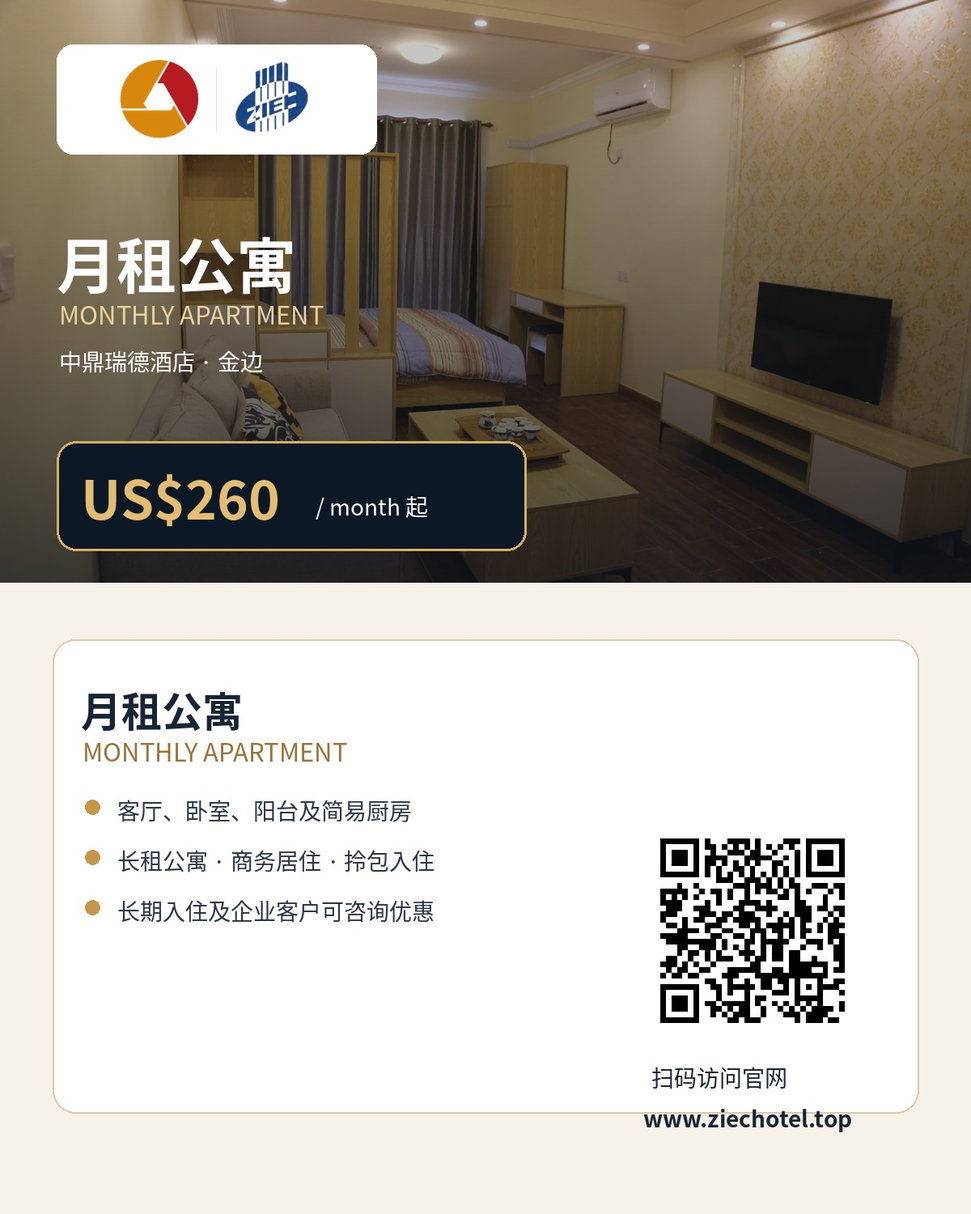
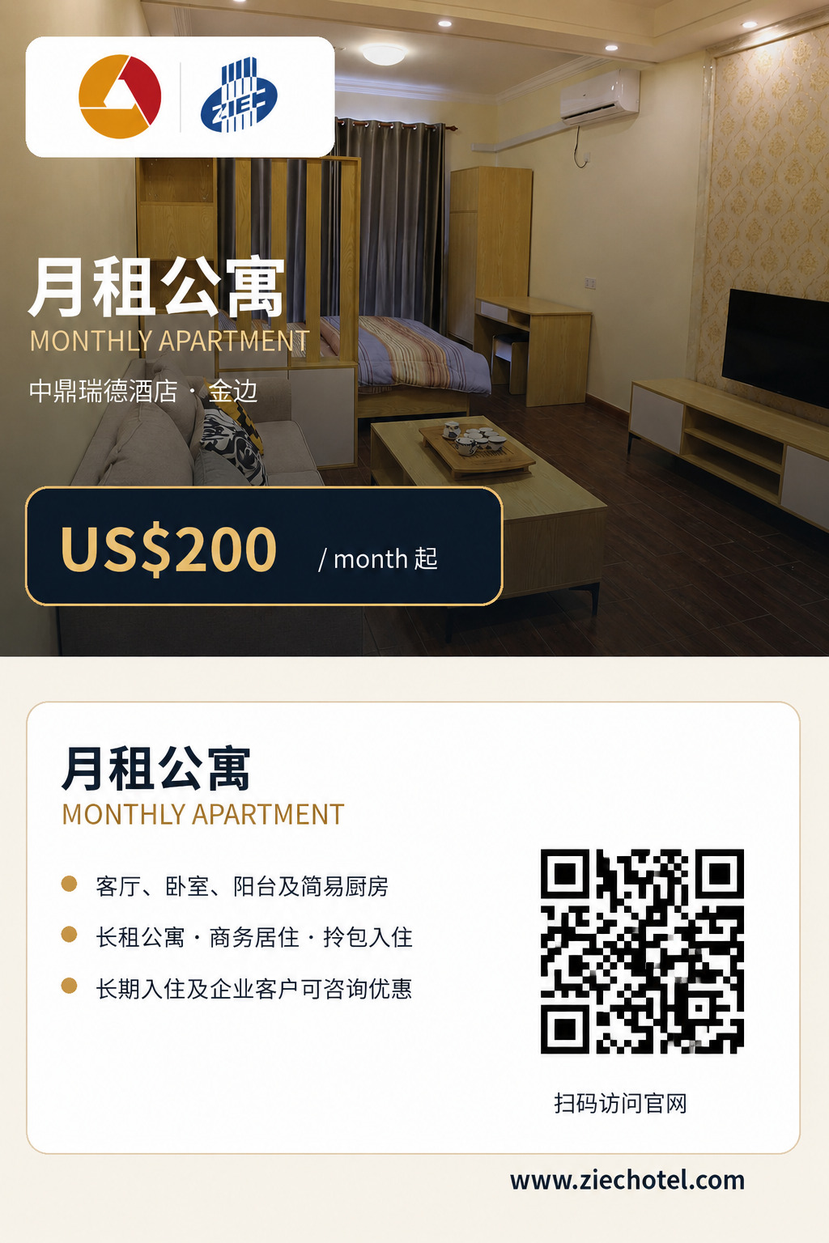
ZIEC HOTEL V7.5
ZIEC HOTEL V7.5

diff --git a/script.js b/script.js
@@ -111,8 +111,8 @@ const I18N_TEXT = {
     "酒店住宿": "Hotel Stays",
     "舒适客房、安心入住 →": "Comfortable rooms, reliable stays →",
     "月租公寓": "Monthly Apartments",
-    "US$260/月起，适合长期居住 →":
-      "From US$260/month for long-term stays →",
+    "US$200/月起，适合长期居住 →":
+      "From US$200/month for long-term stays →",
     "团队接待、长包房、协议合作 →":
       "Group reception, long stays and corporate agreements →",
     "会议中心": "Conference Center",
@@ -134,7 +134,7 @@ const I18N_TEXT = {
     "/ month 起": "/ month",
     "长住更划算，拎包即可入住。":
       "Better value for long stays, ready to move in.",
-    "US$260": "US$260",
+    "US$200": "US$200",
     "/ 月起": "/ month",
     "独立客厅与卧室": "Separate Living Room and Bedroom",
     "阳台及简易厨房": "Balcony and Simple Kitchen",
@@ -591,7 +591,7 @@ Object.assign(I18N_TEXT.kh, {
   "常见问题": "សំណួរញឹកញាប់", "关于预订、月租、企业团房和中文服务的直接说明。": "ចម្លើយអំពីការកក់ ការជួលប្រចាំខែ បន្ទប់ជាក្រុម និងសេវាអតិថិជន។",
   "中国客人如何预订？": "តើភ្ញៀវចិនកក់យ៉ាងដូចម្តេច?", "在酒店页面提交姓名、联系方式、日期、人数和房型，中文客服确认后回复。": "ដាក់ឈ្មោះ ទំនាក់ទំនង កាលបរិច្ឆេទ ចំនួនភ្ញៀវ និងប្រភេទបន្ទប់នៅទំព័រសណ្ឋាគារ ហើយបុគ្គលិកនឹងឆ្លើយបន្ទាប់ពីបញ្ជាក់។",
   "是否支持中文服务？": "តើមានសេវាភាសាចិនទេ?", "支持中文住宿咨询、企业团房、接送包车和本地服务对接。": "មានសេវាប្រឹក្សាការស្នាក់នៅ បន្ទប់សហគ្រាស ការដឹកជញ្ជូន ជួលរថយន្ត និងសេវាក្នុងស្រុក។",
-  "月租包含哪些费用？": "ការជួលប្រចាំខែរួមបញ្ចូលថ្លៃអ្វីខ្លះ?", "月租公寓US$260/月起，费用包含、押金及水电标准以确认方案为准。": "អាផាតមិនចាប់ពី US$260/ខែ។ ថ្លៃរួម ប្រាក់កក់ ទឹក និងអគ្គិសនី អាស្រ័យលើផែនការដែលបានបញ្ជាក់។",
+  "月租包含哪些费用？": "ការជួលប្រចាំខែរួមបញ្ចូលថ្លៃអ្វីខ្លះ?", "月租公寓US$200/月起，费用包含、押金及水电标准以确认方案为准។": "អាផាតមិនចាប់ពី US$200/ខែ។ ថ្លៃរួម ប្រាក់កក់ ទឹក និងអគ្គិសនី អាស្រ័យលើផែនការដែលបានបញ្ជាក់។",
   "企业团房如何报价？": "តើបន្ទប់ជាក្រុមសហគ្រាសគិតតម្លៃយ៉ាងដូចម្តេច?", "根据入住人数、周期、房型、接送及结算需求制定协议方案。": "រៀបចំផែនការតាមចំនួនភ្ញៀវ រយៈពេល ប្រភេទបន្ទប់ ការដឹកជញ្ជូន និងការទូទាត់។",
   "接送包车如何收费？": "តើសេវាដឹកជញ្ជូន និងជួលរថយន្តគិតថ្លៃយ៉ាងដូចម្តេច?", "根据出发地、目的地、车型、人数和使用时长确认报价。": "តម្លៃអាស្រ័យលើទីតាំងចេញ គោលដៅ ប្រភេទរថយន្ត ចំនួនមនុស្ស និងរយៈពេលប្រើប្រាស់។",
   "取消和退款规则是什么？": "តើគោលការណ៍លុបចោល និងសងប្រាក់ជាអ្វី?", "付款前会说明取消期限、不可退条件和退款时间，确认后再付款。": "លក្ខខណ្ឌលុបចោល មិនសងប្រាក់ និងពេលសងប្រាក់ នឹងជូនដំណឹងមុនបង់ប្រាក់។",
@@ -615,11 +615,11 @@ Object.assign(I18N_TEXT.kh, {
   "STAY · 住": "STAY · ស្នាក់", "MOVE · 行": "MOVE · ធ្វើដំណើរ", "BUSINESS · 商": "BUSINESS · អាជីវកម្ម", "SUPPLY · 供": "SUPPLY · ផ្គត់ផ្គង់",
   "行｜接送包车与本地协助": "ធ្វើដំណើរ｜ដឹកជញ្ជូន ជួលរថយន្ត និងជំនួយក្នុងស្រុក",
   "接送、包车、司机与本地协助由客服先确认需求、价格与实际可用情况，适合游客、商务客和企业团队。": "ការដឹកជញ្ជូន ជួលរថយន្ត អ្នកបើកបរ និងជំនួយក្នុងស្រុក នឹងបញ្ជាក់តម្រូវការ តម្លៃ និងភាពអាចប្រើបានជាមុន សម្រាប់ភ្ញៀវទេសចរ អ្នកជំនួញ និងក្រុមសហគ្រាស។",
-  "US$35 / 晚": "US$35 / យប់", "US$45 / 晚": "US$45 / យប់", "US$65 / 晚": "US$65 / យប់", "US$80 / 晚": "US$80 / យប់", "US$260 / 月起": "ចាប់ពី US$260 / ខែ",
+  "US$35 / 晚": "US$35 / យប់", "US$45 / 晚": "US$45 / យប់", "US$65 / 晚": "US$65 / យប់", "US$80 / 晚": "US$80 / យប់", "US$200 / 月起": "ចាប់ពី US$200 / ខែ",
   "精美三室一厅套房｜US$80/晚 | ZIEC HOTEL": "ស៊ុយបីបន្ទប់គេង និងបន្ទប់ទទួលភ្ញៀវ｜US$80/យប់ | ZIEC HOTEL",
   "真实套房照片，三间卧室与独立客厅，适合家庭、朋友多人同行及企业接待。": "រូបស៊ុយពិត មានបន្ទប់គេងបី និងបន្ទប់ទទួលភ្ញៀវដាច់ដោយឡែក សម្រាប់គ្រួសារ មិត្តភក្តិ និងសហគ្រាស។",
   "三间独立卧室": "បន្ទប់គេងដាច់ដោយឡែកបី", "宽敞独立客厅": "បន្ទប់ទទួលភ្ញៀវធំទូលាយដាច់ដោយឡែក", "家庭及多人入住优选": "ជម្រើសល្អសម្រាប់គ្រួសារ និងភ្ញៀវច្រើន", "适合企业接待": "សម្រាប់ការទទួលភ្ញៀវសហគ្រាស",
-  "月租公寓 | ZIEC HOTEL": "អាផាតមិនប្រចាំខែ | ZIEC HOTEL", "US$260 / month 起": "ចាប់ពី US$260 / ខែ", "US$260/月起": "ចាប់ពី US$260/ខែ",
+  "月租公寓 | ZIEC HOTEL": "អាផាតមិនប្រចាំខែ | ZIEC HOTEL", "US$200 / month 起": "ចាប់ពី US$200 / ខែ", "US$200/月起": "ចាប់ពី US$200/ខែ",
   "月租公寓配备客厅、卧室、阳台、电视、空调及简易厨房，适合长期住宿与企业客户。": "អាផាតមិនមានបន្ទប់ទទួលភ្ញៀវ បន្ទប់គេង យ៉រ ទូរទស្សន៍ ម៉ាស៊ីនត្រជាក់ និងផ្ទះបាយតូច សម្រាប់ការស្នាក់នៅយូរ និងអតិថិជនសហគ្រាស។",
   "客厅与独立睡眠区": "បន្ទប់ទទួលភ្ញៀវ និងកន្លែងគេងដាច់ដោយឡែក", "阳台与简易厨房": "យ៉រ និងផ្ទះបាយតូច", "长期入住可咨询优惠": "សាកសួរអំពីតម្លៃពិសេសសម្រាប់ការស្នាក់នៅយូរ"
 });
@@ -652,7 +652,7 @@ Object.assign(I18N_TEXT.kh, {
   "适合商务出行、情侣及单人舒适入住。":"សម្រាប់ដំណើរអាជីវកម្ម គូស្នេហ៍ និងភ្ញៀវម្នាក់។", "适合同事、朋友及商务团队双人入住。":"សម្រាប់មិត្តរួមការងារ មិត្តភក្តិ និងក្រុមអាជីវកម្មពីរនាក់។",
   "两间卧室与独立客厅，适合家庭及多人入住。":"មានបន្ទប់គេងពីរ និងបន្ទប់ទទួលភ្ញៀវដាច់ដោយឡែក សម្រាប់គ្រួសារ និងភ្ញៀវច្រើន។", "三间卧室与客厅，适合家庭、朋友及多人同行。":"មានបន្ទប់គេងបី និងបន្ទប់ទទួលភ្ញៀវ សម្រាប់គ្រួសារ មិត្តភក្តិ និងភ្ញៀវច្រើន។",
   "三卧室套房布局，适合家庭、团队及企业接待。":"ស៊ុយបីបន្ទប់គេង សម្រាប់គ្រួសារ ក្រុម និងការទទួលភ្ញៀវសហគ្រាស។", "大床配置，适合商务客人与管理人员长住。":"គ្រែធំ សម្រាប់ភ្ញៀវអាជីវកម្ម និងអ្នកគ្រប់គ្រងស្នាក់យូរ។", "双床配置，适合商务同行及企业团队入住。":"គ្រែពីរ សម្រាប់អ្នកធ្វើដំណើរអាជីវកម្ម និងក្រុមហ៊ុន។",
-  "US$260/月具体包含服务：请咨询客服确认":"សេវាដែលរួមក្នុង US$260/ខែ៖ សូមបញ្ជាក់ជាមួយបុគ្គលិក", "最短租期、押金、水电费：请咨询客服确认":"រយៈពេលជួលអប្បបរមា ប្រាក់កក់ ទឹក និងភ្លើង៖ សូមបញ្ជាក់ជាមួយបុគ្គលិក", "网络、停车、清洁及发票：请咨询客服确认":"អ៊ីនធឺណិត ចំណត ការសម្អាត និងវិក្កយបត្រ៖ សូមបញ្ជាក់ជាមួយបុគ្គលិក",
+  "US$200/月具体包含服务：请咨询客服确认":"សេវាដែលរួមក្នុង US$200/ខែ៖ សូមបញ្ជាក់ជាមួយបុគ្គលិក", "最短租期、押金、水电费：请咨询客服确认":"រយៈពេលជួលអប្បបរមា ប្រាក់កក់ ទឹក និងភ្លើង៖ សូមបញ្ជាក់ជាមួយបុគ្គលិក", "网络、停车、清洁及发票：请咨询客服确认":"អ៊ីនធឺណិត ចំណត ការសម្អាត និងវិក្កយបត្រ៖ សូមបញ្ជាក់ជាមួយបុគ្គលិក",
   "酒店详情与入住信息":"ព័ត៌មានសណ្ឋាគារ និងការចូលស្នាក់", "地址与地图":"អាសយដ្ឋាន និងផែនទី", "打开 Google Maps 导航 →":"បើកការណែនាំ Google Maps →", "入住政策":"គោលការណ៍ចូលស្នាក់", "付款与退款":"ការបង់ប្រាក់ និងការសងប្រាក់",
   "链接柬埔寨优质供应链":"ភ្ជាប់ខ្សែសង្វាក់ផ្គត់ផ្គង់ដែលមានគុណភាពនៅកម្ពុជា", "查找可信供应商、发布采购需求，让企业合作更直接、更高效。":"ស្វែងរកអ្នកផ្គត់ផ្គង់ដែលគួរឱ្យទុកចិត្ត និងផ្សព្វផ្សាយតម្រូវការទិញ ដើម្បីឱ្យកិច្ចសហការកាន់តែមានប្រសិទ្ធភាព។",
   "采购与企业服务入口":"ច្រកសេវាទិញ និងសហគ្រាស", "从寻找资源到发布需求，快速进入对应服务。":"ចូលទៅសេវាដែលត្រូវការបានលឿន ចាប់ពីស្វែងរកធនធានដល់ដាក់តម្រូវការ។", "按行业与关键词筛选企业 →":"ត្រងសហគ្រាសតាមវិស័យ និងពាក្យគន្លឹះ →", "提交4–10张企业及产品图片 →":"ដាក់រូបសហគ្រាស និងផលិតផល 4–10 សន្លឹក →", "提交预算、交付时间与采购需求 →":"ដាក់ថវិកា ពេលប្រគល់ និងតម្រូវការទិញ →", "WhatsApp专人协助匹配资源 →":"បុគ្គលិក WhatsApp ជួយផ្គូផ្គងធនធាន →",
@@ -669,7 +669,7 @@ Object.assign(I18N_TEXT.kh, {
   "客房和公寓组合安排；协议价按人数、房型与入住期限确认。":"រៀបចំបន្ទប់ និងអាផាតមិនរួមគ្នា។ តម្លៃកិច្ចព្រមព្រៀងតាមចំនួនមនុស្ស ប្រភេទបន្ទប់ និងរយៈពេល។",
   "接送、洗衣、停车、清洁等项目以企业确认方案为准。":"ការដឹកជញ្ជូន បោកគក់ ចំណត និងសម្អាត អាស្រ័យលើផែនការដែលសហគ្រាសបានបញ្ជាក់។",
   "发票、对公结算与月结申请条件，请咨询客服确认。":"សូមសាកសួរបុគ្គលិកអំពីវិក្កយបត្រ ការទូទាត់សហគ្រាស និងលក្ខខណ្ឌទូទាត់ប្រចាំខែ។",
-  "US$260/月起，适合长期居住 →":"ចាប់ពី US$260/ខែ សម្រាប់ការស្នាក់នៅយូរ →", "1间":"1 បន្ទប់", "2间":"2 បន្ទប់", "3间":"3 បន្ទប់", "1位":"1 នាក់", "2位":"2 នាក់", "3位":"3 នាក់", "/晚":"/យប់", "/ 晚":"/ យប់", "/月起":"/ខែឡើង", "长住推荐":"ណែនាំសម្រាប់ស្នាក់យូរ",
+  "US$200/月起，适合长期居住 →":"ចាប់ពី US$200/ខែ សម្រាប់ការស្នាក់នៅយូរ →", "1间":"1 បន្ទប់", "2间":"2 បន្ទប់", "3间":"3 បន្ទប់", "1位":"1 នាក់", "2位":"2 នាក់", "3位":"3 នាក់", "/晚":"/យប់", "/ 晚":"/ យប់", "/月起":"/ខែឡើង", "长住推荐":"ណែនាំសម្រាប់ស្នាក់យូរ",
   "预订前先确认地址、房态、入住政策与付款规则，让每一次入住更清楚。":"មុនកក់ សូមបញ្ជាក់អាសយដ្ឋាន បន្ទប់ គោលការណ៍ចូលស្នាក់ និងការបង់ប្រាក់។",
   "柬埔寨 · 金边。三语完整门牌地址正在按地图正式资料核准。":"ភ្នំពេញ · កម្ពុជា។ អាសយដ្ឋានពេញបីភាសាកំពុងផ្ទៀងផ្ទាត់តាមផែនទី។",
   "入住时间、退房时间、押金、加床及儿童政策以具体房型确认单为准。":"ម៉ោងចូល និងចេញ ប្រាក់កក់ គ្រែបន្ថែម និងគោលការណ៍កុមារ អាស្រ័យលើការបញ្ជាក់បន្ទប់។", "确认入住须知 →":"បញ្ជាក់ការណែនាំចូលស្នាក់ →",
@@ -684,10 +684,10 @@ Object.assign(I18N_TEXT.kh, {
   "公司简介":"ប្រវត្តិក្រុមហ៊ុន", "主营产品或服务":"ផលិតផល ឬសេវាសំខាន់", "资料正在完善，请联系企业或平台客服确认。":"ព័ត៌មានកំពុងរៀបចំ។ សូមទាក់ទងក្រុមហ៊ុន ឬបុគ្គលិកវេទិកាដើម្បីបញ្ជាក់។", "请咨询确认":"សូមសាកសួរដើម្បីបញ្ជាក់", "联系人":"អ្នកទំនាក់ទំនង", "电话":"ទូរស័ព្ទ", "地址":"អាសយដ្ឋាន", "待补充":"រង់ចាំបំពេញ", "WhatsApp咨询":"សាកសួរតាម WhatsApp", "分享推广":"ចែករំលែកផ្សព្វផ្សាយ", "生成海报":"បង្កើតផ្ទាំងផ្សព្វផ្សាយ"
 });
 Object.assign(I18N_TEXT.kh, {
-  "中鼎国际酒店 · 豪华大床房":"សណ្ឋាគារអន្តរជាតិ Zhongding · បន្ទប់គ្រែធំប្រណីត", "中鼎国际酒店 · 豪华双床房":"សណ្ឋាគារអន្តរជាតិ Zhongding · បន្ទប់គ្រែពីរប្រណីត", "中鼎国际酒店 · 家庭两房一厅":"សណ្ឋាគារអន្តរជាតិ Zhongding · ស៊ុយគ្រួសារពីរបន្ទប់គេង", "金边月租公寓 · 长住方案":"អាផាតមិនប្រចាំខែនៅភ្នំពេញ · ផែនការស្នាក់នៅយូរ", "企业协议住宿 · 团队接待":"ការស្នាក់នៅតាមកិច្ចព្រមព្រៀងសហគ្រាស · ការទទួលក្រុម", "推荐酒店":"សណ្ឋាគារណែនាំ", "家庭与多人入住":"សម្រាប់គ្រួសារ និងភ្ញៀវច្រើន", "长租公寓":"អាផាតមិនជួលយូរ", "企业住宿":"ការស្នាក់នៅសហគ្រាស", "US$ 35 / 晚":"US$ 35 / យប់", "US$ 65 / 晚":"US$ 65 / យប់", "US$ 70 / 晚":"US$ 70 / យប់", "US$ 260 / 月起":"ចាប់ពី US$ 260 / ខែ", "月结、长住与接待需求可核价":"សូមសាកសួរតម្លៃសម្រាប់ការទូទាត់ប្រចាំខែ ការស្នាក់នៅយូរ និងការទទួលក្រុម", "查看与预订 →":"មើល និងកក់ →"
+  "中鼎国际酒店 · 豪华大床房":"សណ្ឋាគារអន្តរជាតិ Zhongding · បន្ទប់គ្រែធំប្រណីត", "中鼎国际酒店 · 豪华双床房":"សណ្ឋាគារអន្តរជាតិ Zhongding · បន្ទប់គ្រែពីរប្រណីត", "中鼎国际酒店 · 家庭两房一厅":"សណ្ឋាគារអន្តរជាតិ Zhongding · ស៊ុយគ្រួសារពីរបន្ទប់គេង", "金边月租公寓 · 长住方案":"អាផាតមិនប្រចាំខែនៅភ្នំពេញ · ផែនការស្នាក់នៅយូរ", "企业协议住宿 · 团队接待":"ការស្នាក់នៅតាមកិច្ចព្រមព្រៀងសហគ្រាស · ការទទួលក្រុម", "推荐酒店":"សណ្ឋាគារណែនាំ", "家庭与多人入住":"សម្រាប់គ្រួសារ និងភ្ញៀវច្រើន", "长租公寓":"អាផាតមិនជួលយូរ", "企业住宿":"ការស្នាក់នៅសហគ្រាស", "US$ 35 / 晚":"US$ 35 / យប់", "US$ 65 / 晚":"US$ 65 / យប់", "US$ 70 / 晚":"US$ 70 / យប់", "US$ 200 / 月起":"ចាប់ពី US$ 200 / ខែ", "月结、长住与接待需求可核价":"សូមសាកសួរតម្លៃសម្រាប់ការទូទាត់ប្រចាំខែ ការស្នាក់នៅយូរ និងការទទួលក្រុម", "查看与预订 →":"មើល និងកក់ →"
 });
 Object.assign(I18N_TEXT.en, {
-  "中鼎国际酒店 · 豪华大床房":"Zhongding International Hotel · Deluxe King Room", "中鼎国际酒店 · 豪华双床房":"Zhongding International Hotel · Deluxe Twin Room", "中鼎国际酒店 · 家庭两房一厅":"Zhongding International Hotel · Two-Bedroom Family Suite", "金边月租公寓 · 长住方案":"Phnom Penh Monthly Apartment · Long-Stay Plan", "企业协议住宿 · 团队接待":"Corporate Contract Stay · Group Reception", "推荐酒店":"Recommended Hotel", "家庭与多人入住":"Family & Group Stay", "长租公寓":"Long-Stay Apartment", "企业住宿":"Corporate Stay", "US$ 35 / 晚":"US$ 35 / night", "US$ 65 / 晚":"US$ 65 / night", "US$ 70 / 晚":"US$ 70 / night", "US$ 260 / 月起":"From US$ 260 / month", "月结、长住与接待需求可核价":"Rates available for monthly settlement, long stays and group reception", "查看与预订 →":"View & Book →"
+  "中鼎国际酒店 · 豪华大床房":"Zhongding International Hotel · Deluxe King Room", "中鼎国际酒店 · 豪华双床房":"Zhongding International Hotel · Deluxe Twin Room", "中鼎国际酒店 · 家庭两房一厅":"Zhongding International Hotel · Two-Bedroom Family Suite", "金边月租公寓 · 长住方案":"Phnom Penh Monthly Apartment · Long-Stay Plan", "企业协议住宿 · 团队接待":"Corporate Contract Stay · Group Reception", "推荐酒店":"Recommended Hotel", "家庭与多人入住":"Family & Group Stay", "长租公寓":"Long-Stay Apartment", "企业住宿":"Corporate Stay", "US$ 35 / 晚":"US$ 35 / night", "US$ 65 / 晚":"US$ 65 / night", "US$ 70 / 晚":"US$ 70 / night", "US$ 200 / 月起":"From US$ 200 / month", "月结、长住与接待需求可核价":"Rates available for monthly settlement, long stays and group reception", "查看与预订 →":"View & Book →"
 });
 Object.assign(I18N_TEXT.kh, {
   "预订保障":"ការធានាការកក់", "客房US$35/晚起":"បន្ទប់ចាប់ពី US$35/យប់", "提交需求无需付款":"ដាក់សំណើដោយមិនចាំបាច់បង់ប្រាក់", "预计10分钟内回复":"រំពឹងឆ្លើយក្នុង 10 នាទី", "已提供Google地图":"មានទីតាំង Google Maps"
@@ -883,6 +883,32 @@ function setLanguage(lang) {
   applyPageMeta(lang);
   updateLanguageButtons(lang);
 }
+// V7.5: complete translations for contact, admin and revised monthly pricing.
+Object.assign(I18N_TEXT.en, {
+  "联系酒店与到店导航":"Contact the Hotel and Get Directions",
+  "住宿、月租、企业团房与到店路线，由客服根据实际需求确认。":"Contact support to confirm hotel stays, monthly rentals, corporate group accommodation and directions.",
+  "运营主体：":"Operator:", "服务城市：":"Service City:", "柬语／酒店前台：":"Khmer / Hotel Reception:", "中文客服／WhatsApp：":"Chinese Support / WhatsApp:", "邮箱：":"Email:",
+  "Google Maps定位已经确认；点击地图可直接导航。需要中、英、柬文地址时，请联系前台发送。":"The Google Maps location is confirmed. Open the map for directions, or contact reception for the address in Chinese, English or Khmer.",
+  "打开 Google Maps 导航":"Open Google Maps", "WhatsApp中文咨询":"WhatsApp Support", "拨打酒店前台":"Call Hotel Reception", "点击打开酒店准确定位 →":"Open the Confirmed Hotel Location →",
+  "ZIEC 平台管理后台":"ZIEC Platform Administration", "供应商、酒店房源、采购询价与 AI 客服统一管理。":"Manage suppliers, hotel rooms, purchase enquiries and AI support in one place.",
+  "供应商管理":"Supplier Management", "酒店房源":"Hotel Rooms", "采购询价":"Purchase Enquiries", "AI统一管理":"AI Management",
+  "US$200/月起，适合长期居住 →":"From US$200/month for long-term stays →", "US$200":"US$200", "US$200 / 月起":"From US$200 / month", "US$200 / month 起":"From US$200 / month", "US$200/月起":"From US$200/month",
+  "月租公寓US$200/月起，费用包含、押金及水电标准以确认方案为准。":"Monthly apartments start from US$200 per month. Included services, deposit and utility charges are subject to the confirmed offer.",
+  "US$200/月具体包含服务：请咨询客服确认":"Please confirm the services included in the US$200 monthly rate with support."
+});
+Object.assign(I18N_TEXT.kh, {
+  "联系酒店与到店导航":"ទាក់ទងសណ្ឋាគារ និងមើលផ្លូវទៅកាន់ទីតាំង",
+  "住宿、月租、企业团房与到店路线，由客服根据实际需求确认。":"សូមទាក់ទងបុគ្គលិកដើម្បីបញ្ជាក់ការស្នាក់នៅ ការជួលប្រចាំខែ បន្ទប់សម្រាប់ក្រុមហ៊ុន និងផ្លូវទៅសណ្ឋាគារ។",
+  "运营主体：":"ប្រតិបត្តិករ៖", "服务城市：":"ទីក្រុងសេវាកម្ម៖", "柬语／酒店前台：":"ភាសាខ្មែរ / ផ្នែកទទួលភ្ញៀវ៖", "中文客服／WhatsApp：":"សេវាភាសាចិន / WhatsApp៖", "邮箱：":"អ៊ីមែល៖",
+  "Google Maps定位已经确认；点击地图可直接导航。需要中、英、柬文地址时，请联系前台发送。":"ទីតាំង Google Maps បានបញ្ជាក់។ ចុចផែនទីដើម្បីមើលផ្លូវ ឬទាក់ទងផ្នែកទទួលភ្ញៀវសម្រាប់អាសយដ្ឋានជាភាសាចិន អង់គ្លេស ឬខ្មែរ។",
+  "打开 Google Maps 导航":"បើក Google Maps", "WhatsApp中文咨询":"ទាក់ទងតាម WhatsApp", "拨打酒店前台":"ហៅផ្នែកទទួលភ្ញៀវ", "点击打开酒店准确定位 →":"បើកទីតាំងសណ្ឋាគារដែលបានបញ្ជាក់ →",
+  "ZIEC 平台管理后台":"ប្រព័ន្ធគ្រប់គ្រងវេទិកា ZIEC", "供应商、酒店房源、采购询价与 AI 客服统一管理。":"គ្រប់គ្រងអ្នកផ្គត់ផ្គង់ បន្ទប់សណ្ឋាគារ សំណើទិញ និងសេវា AI នៅកន្លែងតែមួយ។",
+  "供应商管理":"ការគ្រប់គ្រងអ្នកផ្គត់ផ្គង់", "酒店房源":"បន្ទប់សណ្ឋាគារ", "采购询价":"សំណើតម្លៃទិញ", "AI统一管理":"ការគ្រប់គ្រង AI",
+  "US$200/月起，适合长期居住 →":"ចាប់ពី US$200/ខែ សម្រាប់ការស្នាក់នៅយូរ →", "US$200":"US$200", "US$200 / 月起":"ចាប់ពី US$200 / ខែ", "US$200 / month 起":"ចាប់ពី US$200 / ខែ", "US$200/月起":"ចាប់ពី US$200/ខែ",
+  "月租公寓US$200/月起，费用包含、押金及水电标准以确认方案为准。":"អាផាតមិនចាប់ពី US$200/ខែ។ សេវាដែលរួម ប្រាក់កក់ និងថ្លៃទឹកភ្លើង អាស្រ័យលើការបញ្ជាក់ចុងក្រោយ។",
+  "US$200/月具体包含服务：请咨询客服确认":"សូមបញ្ជាក់ជាមួយបុគ្គលិកអំពីសេវាដែលរួមក្នុងតម្លៃ US$200/ខែ។"
+});
+
 // V7.4: translations for revised pricing, response promise and confirmed map wording.
 Object.assign(I18N_TEXT.kh, {
   "客服在线时通常10分钟回复":"ពេលបុគ្គលិកអនឡាញ ជាទូទៅឆ្លើយក្នុង 10 នាទី",
@@ -1151,7 +1177,7 @@ async function loadHomeRecommendations() {
     {
       label: "长租公寓",
       title: "金边月租公寓 · 长住方案",
-      price: "US$ 260 / 月起",
+      price: "US$ 200 / 月起",
       image: "assets/monthly-6.jpg",
       href: "./hotels.html",
     },
@@ -1261,13 +1287,13 @@ document.querySelectorAll(".footer-wrap").forEach((footer) => {
   if (versionPattern.test(footer.textContent)) {
     footer.querySelectorAll("div").forEach((item) => {
       if (/ZIEC HOTEL V\d+(?:\.\d+)*/.test(item.textContent)) {
-        item.innerHTML = item.innerHTML.replace(versionPattern, "ZIEC HOTEL V7.4");
+        item.innerHTML = item.innerHTML.replace(versionPattern, "ZIEC HOTEL V7.5");
       }
     });
   } else {
     const version = document.createElement("div");
     version.className = "site-version";
-    version.textContent = "ZIEC HOTEL V7.4";
+    version.textContent = "ZIEC HOTEL V7.5";
     footer.appendChild(version);
   }
 });

diff --git a/monthly.html b/monthly.html
@@ -1,10 +1,10 @@
 <!doctype html><html lang="zh-CN"><head><meta charset="UTF-8"><meta name="viewport" content="width=device-width,initial-scale=1,viewport-fit=cover">
-<meta name="description" content="月租公寓配备客厅、卧室、阳台、电视、空调及简易厨房，适合长期住宿与企业客户。"><title>月租公寓 | ZIEC HOTEL</title><link rel="canonical" href="https://www.ziechotel.com/monthly"><script type="application/ld+json">{"@context":"https://schema.org","@type":"Apartment","name":"ZIEC HOTEL月租公寓","image":"https://www.ziechotel.com/assets/monthly-6.jpg","offers":{"@type":"Offer","price":"260","priceCurrency":"USD","url":"https://www.ziechotel.com/monthly"}}</script>
+<meta name="description" content="月租公寓配备客厅、卧室、阳台、电视、空调及简易厨房，US$200/月起，适合长期住宿与企业客户。"><title>月租公寓 | ZIEC HOTEL</title><link rel="canonical" href="https://www.ziechotel.com/monthly"><script type="application/ld+json">{"@context":"https://schema.org","@type":"Apartment","name":"ZIEC HOTEL月租公寓","image":"https://www.ziechotel.com/assets/monthly-6.jpg","offers":{"@type":"Offer","price":"200","priceCurrency":"USD","url":"https://www.ziechotel.com/monthly"}}</script>
 <meta property="og:type" content="website"><meta property="og:title" content="月租公寓 | ZIEC HOTEL"><meta property="og:description" content="月租公寓配备客厅、卧室、阳台、电视、空调及简易厨房，适合长期住宿与企业客户。">
 <meta property="og:url" content="https://www.ziechotel.com/monthly.html"><meta property="og:image" content="https://www.ziechotel.com/assets/ziec-cover-v66.png">
 <meta name="twitter:card" content="summary_large_image"><link rel="stylesheet" href="./styles.css"></head><body><header class="site-header"><div class="container nav"><a class="brand" href="./index.html"><img src="./assets/logo.png" alt="ZIEC Logo"><span><strong>ZIEC HOTEL</strong><small>中鼎国际酒店</small></span></a><button class="menu-toggle" type="button" aria-label="打开菜单" aria-expanded="false"><span></span><span></span><span></span></button><nav class="nav-links"><a href="./index.html">首页</a><a href="./index.html#hotel-stay">酒店住宿</a><a href="./index.html#corporate">企业服务</a><a href="./suppliers.html">供应链平台</a><a href="./index.html#contact">联系我们</a><button class="nav-ai" type="button" data-ai-open>AI 客服</button><a class="nav-cta" href="https://wa.me/855189958899" target="_blank" rel="noopener">WhatsApp 咨询</a></nav></div></header>
-<section class="detail-hero" style="background-image:linear-gradient(90deg,rgba(5,12,21,.55),rgba(5,12,21,.05)),url('./assets/monthly-1.jpg')"><div class="overlay"><div class="container"><div class="eyebrow">MONTHLY APARTMENT</div><h1>月租公寓</h1><div class="detail-price">US$260 / month 起</div></div></div></section>
-<section class="section"><div class="container detail-grid"><div><div class="section-title"><span>REAL HOTEL PHOTOS</span><h2>房型实景</h2><p class="muted">月租公寓配备客厅、卧室、阳台、电视、空调及简易厨房，适合长期住宿与企业客户。</p></div><div class="photo-grid"><img src="./assets/monthly-1.jpg" alt="月租公寓"><img src="./assets/monthly-2.jpg" alt="月租公寓"><img src="./assets/monthly-3.jpg" alt="月租公寓"><img src="./assets/monthly-4.jpg" alt="月租公寓"><img src="./assets/monthly-5.jpg" alt="月租公寓"><img src="./assets/monthly-6.jpg" alt="月租公寓"><img src="./assets/monthly-7.jpg" alt="月租公寓"></div></div><aside class="info-panel"><h2>月租公寓</h2><div class="price">US$260 / month 起</div><ul class="feature-list"><li>US$260/月起</li><li>客厅与独立睡眠区</li><li>阳台与简易厨房</li><li>长期入住可咨询优惠</li></ul><div class="share-actions"><a class="btn btn-primary" href="https://wa.me/855189958899">WhatsApp咨询</a><button class="share-btn" data-share data-url="https://www.ziechotel.com/monthly.html" data-title="月租公寓｜ZIEC HOTEL">系统分享</button><a class="share-btn" target="_blank" href="https://www.facebook.com/sharer/sharer.php?u=https://www.ziechotel.com/monthly.html">Facebook</a><a class="share-btn" target="_blank" href="https://t.me/share/url?url=https://www.ziechotel.com/monthly.html">Telegram</a><button class="share-btn" data-copy data-url="https://www.ziechotel.com/monthly.html">复制链接</button></div><div class="poster-preview"><img src="./assets/poster-monthly.jpg" alt="月租公寓分享海报"><a class="btn btn-dark" href="./assets/poster-monthly.jpg" download>下载专属海报</a></div></aside></div></section>
+<section class="detail-hero" style="background-image:linear-gradient(90deg,rgba(5,12,21,.55),rgba(5,12,21,.05)),url('./assets/monthly-1.jpg')"><div class="overlay"><div class="container"><div class="eyebrow">MONTHLY APARTMENT</div><h1>月租公寓</h1><div class="detail-price">US$200 / month 起</div></div></div></section>
+<section class="section"><div class="container detail-grid"><div><div class="section-title"><span>REAL HOTEL PHOTOS</span><h2>房型实景</h2><p class="muted">月租公寓配备客厅、卧室、阳台、电视、空调及简易厨房，适合长期住宿与企业客户。</p></div><div class="photo-grid"><img src="./assets/monthly-1.jpg" alt="月租公寓"><img src="./assets/monthly-2.jpg" alt="月租公寓"><img src="./assets/monthly-3.jpg" alt="月租公寓"><img src="./assets/monthly-4.jpg" alt="月租公寓"><img src="./assets/monthly-5.jpg" alt="月租公寓"><img src="./assets/monthly-6.jpg" alt="月租公寓"><img src="./assets/monthly-7.jpg" alt="月租公寓"></div></div><aside class="info-panel"><h2>月租公寓</h2><div class="price">US$200 / month 起</div><ul class="feature-list"><li>US$200/月起</li><li>客厅与独立睡眠区</li><li>阳台与简易厨房</li><li>长期入住可咨询优惠</li></ul><div class="share-actions"><a class="btn btn-primary" href="https://wa.me/855189958899">WhatsApp咨询</a><button class="share-btn" data-share data-url="https://www.ziechotel.com/monthly.html" data-title="月租公寓｜ZIEC HOTEL">系统分享</button><a class="share-btn" target="_blank" href="https://www.facebook.com/sharer/sharer.php?u=https://www.ziechotel.com/monthly.html">Facebook</a><a class="share-btn" target="_blank" href="https://t.me/share/url?url=https://www.ziechotel.com/monthly.html">Telegram</a><button class="share-btn" data-copy data-url="https://www.ziechotel.com/monthly.html">复制链接</button></div><div class="poster-preview"><img src="./assets/poster-monthly-v75.png" alt="月租公寓分享海报"><a class="btn btn-dark" href="./assets/poster-monthly-v75.png" download>下载专属海报</a></div></aside></div></section>
 <footer class="footer"><div class="container footer-wrap"><div>ZIEC HOTEL · 中鼎国际酒店</div><div>+855 018 318 0888 · +855 018 995 8899 · ziechotel@qq.com · www.ziechotel.com</div></div></footer>
 <section class="ai-panel" id="aiPanel" aria-hidden="true">
   <div class="ai-head"><div><strong>中鼎 AI 客服</strong><small>酒店住宿 · 企业服务 · 供应链咨询</small></div><button type="button" data-ai-close aria-label="关闭">×</button></div>

diff --git a/faq.html b/faq.html
@@ -1,2 +1,2 @@
-<!doctype html><html lang="zh-CN"><head><meta charset="UTF-8"><meta name="viewport" content="width=device-width,initial-scale=1"><meta name="description" content="ZIEC HOTEL预订、中文服务、月租、企业团房、接送包车、付款与退款常见问题。"><title>常见问题｜ZIEC HOTEL</title><link rel="canonical" href="https://www.ziechotel.com/faq"><link rel="stylesheet" href="./styles.css"><script type="application/ld+json">{"@context":"https://schema.org","@type":"FAQPage","mainEntity":[{"@type":"Question","name":"中国客人如何预订？","acceptedAnswer":{"@type":"Answer","text":"可在网站提交入住需求，中文客服确认实际房态、价格和入住安排后联系客人。"}},{"@type":"Question","name":"是否支持中文服务？","acceptedAnswer":{"@type":"Answer","text":"支持中文住宿咨询、企业团房、接送包车和本地服务对接。"}},{"@type":"Question","name":"月租价格包含哪些费用？","acceptedAnswer":{"@type":"Answer","text":"月租公寓260美元每月起，具体包含项目、押金和水电标准以客服确认方案为准。"}},{"@type":"Question","name":"如何确认取消和退款规则？","acceptedAnswer":{"@type":"Answer","text":"酒店在付款前说明房态、总价、取消期限、不可退条件和退款时间，客人确认后再付款。"}}]}</script></head><body>
-<header class="site-header"><div class="container nav"><a class="brand" href="./index.html"><img src="./assets/logo.png" alt="ZIEC HOTEL"><span><strong>ZIEC HOTEL</strong><small>中鼎国际酒店</small></span></a><nav class="nav-links"><a href="./index.html">首页</a><a href="./hotels.html">酒店公寓</a><a href="./corporate.html">企业服务</a><a href="./contact.html">联系我们</a></nav></div></header><main><section class="sub-hero"><div class="container"><span>FAQ</span><h1>常见问题</h1><p>关于预订、月租、企业团房和中文服务的直接说明。</p></div></section><section class="section"><div class="container trust-grid"><article><h3>中国客人如何预订？</h3><p>在酒店页面提交姓名、联系方式、日期、人数和房型，中文客服确认后回复。</p></article><article><h3>是否支持中文服务？</h3><p>支持中文住宿咨询、企业团房、接送包车和本地服务对接。</p></article><article><h3>月租包含哪些费用？</h3><p>月租公寓US$260/月起，费用包含、押金及水电标准以确认方案为准。</p></article><article><h3>企业团房如何报价？</h3><p>根据入住人数、周期、房型、接送及结算需求制定协议方案。</p></article><article><h3>接送包车如何收费？</h3><p>根据出发地、目的地、车型、人数和使用时长确认报价。</p></article><article><h3>取消和退款规则是什么？</h3><p>付款前会说明取消期限、不可退条件和退款时间，确认后再付款。</p></article></div></section></main><footer class="footer"><div class="container footer-wrap"><div>ZIEC HOTEL · 中鼎国际酒店</div><div>www.ziechotel.com</div></div></footer><script src="./script.js"></script></body></html>
+<!doctype html><html lang="zh-CN"><head><meta charset="UTF-8"><meta name="viewport" content="width=device-width,initial-scale=1"><meta name="description" content="ZIEC HOTEL预订、中文服务、月租、企业团房、接送包车、付款与退款常见问题。"><title>常见问题｜ZIEC HOTEL</title><link rel="canonical" href="https://www.ziechotel.com/faq"><link rel="stylesheet" href="./styles.css"><script type="application/ld+json">{"@context":"https://schema.org","@type":"FAQPage","mainEntity":[{"@type":"Question","name":"中国客人如何预订？","acceptedAnswer":{"@type":"Answer","text":"可在网站提交入住需求，中文客服确认实际房态、价格和入住安排后联系客人。"}},{"@type":"Question","name":"是否支持中文服务？","acceptedAnswer":{"@type":"Answer","text":"支持中文住宿咨询、企业团房、接送包车和本地服务对接。"}},{"@type":"Question","name":"月租价格包含哪些费用？","acceptedAnswer":{"@type":"Answer","text":"月租公寓200美元每月起，具体包含项目、押金和水电标准以客服确认方案为准。"}},{"@type":"Question","name":"如何确认取消和退款规则？","acceptedAnswer":{"@type":"Answer","text":"酒店在付款前说明房态、总价、取消期限、不可退条件和退款时间，客人确认后再付款。"}}]}</script></head><body>
+<header class="site-header"><div class="container nav"><a class="brand" href="./index.html"><img src="./assets/logo.png" alt="ZIEC HOTEL"><span><strong>ZIEC HOTEL</strong><small>中鼎国际酒店</small></span></a><nav class="nav-links"><a href="./index.html">首页</a><a href="./hotels.html">酒店公寓</a><a href="./corporate.html">企业服务</a><a href="./contact.html">联系我们</a></nav></div></header><main><section class="sub-hero"><div class="container"><span>FAQ</span><h1>常见问题</h1><p>关于预订、月租、企业团房和中文服务的直接说明。</p></div></section><section class="section"><div class="container trust-grid"><article><h3>中国客人如何预订？</h3><p>在酒店页面提交姓名、联系方式、日期、人数和房型，中文客服确认后回复。</p></article><article><h3>是否支持中文服务？</h3><p>支持中文住宿咨询、企业团房、接送包车和本地服务对接。</p></article><article><h3>月租包含哪些费用？</h3><p>月租公寓US$200/月起，费用包含、押金及水电标准以确认方案为准。</p></article><article><h3>企业团房如何报价？</h3><p>根据入住人数、周期、房型、接送及结算需求制定协议方案。</p></article><article><h3>接送包车如何收费？</h3><p>根据出发地、目的地、车型、人数和使用时长确认报价。</p></article><article><h3>取消和退款规则是什么？</h3><p>付款前会说明取消期限、不可退条件和退款时间，确认后再付款。</p></article></div></section></main><footer class="footer"><div class="container footer-wrap"><div>ZIEC HOTEL · 中鼎国际酒店</div><div>www.ziechotel.com</div></div></footer><script src="./script.js"></script></body></html>

diff --git a/hotels.html b/hotels.html
@@ -70,7 +70,7 @@
           >
           <a href="#monthly"
             ><small>APARTMENT</small><strong>月租公寓</strong
-            ><span>US$260/月起，适合长期居住 →</span></a
+            ><span>US$200/月起，适合长期居住 →</span></a
           >
           <a href="#corporate"
             ><small>CORPORATE</small><strong>企业服务</strong
@@ -111,7 +111,7 @@
             <article class="v608-product-card"><img src="./assets/rooms/deluxe-king/H-1-1.webp" alt="豪华大床房"><div><small>舒适入住</small><h3>豪华大床房</h3><p>大床 · 商务出行 · 免费Wi‑Fi</p><footer><b>US$35<em>/晚</em></b><a href="#booking" data-room-pick="豪华大床房">查询房态</a></footer></div></article>
             <article class="v608-product-card"><img src="./assets/rooms/deluxe-twin/H-2-1.webp" alt="豪华双床房"><div><small>双人优选</small><h3>豪华双床房</h3><p>双床 · 同事朋友 · 舒适入住</p><footer><b>US$35<em>/晚</em></b><a href="#booking" data-room-pick="豪华双床房">查询房态</a></footer></div></article>
             <article class="v608-product-card"><img src="./assets/rooms/family-two-bedroom/F-2-1.webp" alt="家庭两房一厅"><div><small>家庭入住</small><h3>家庭两房一厅</h3><p>两间卧室 · 独立客厅 · 多人入住</p><footer><b>US$65<em>/晚</em></b><a href="#booking" data-room-pick="家庭两房一厅">查询房态</a></footer></div></article>
-            <article class="v608-product-card"><img src="./assets/monthly-6.jpg" alt="月租公寓"><div><small>长住推荐</small><h3>月租公寓</h3><p>独立客厅 · 简易厨房 · 拎包入住</p><footer><b>US$260<em>/月起</em></b><a href="#booking">提交入住需求</a></footer></div></article>
+            <article class="v608-product-card"><img src="./assets/monthly-6.jpg" alt="月租公寓"><div><small>长住推荐</small><h3>月租公寓</h3><p>独立客厅 · 简易厨房 · 拎包入住</p><footer><b>US$200<em>/月起</em></b><a href="#booking">提交入住需求</a></footer></div></article>
             <article class="v608-product-card v608-service-card"><div class="service-icon">24H</div><div><small>企业专属</small><h3>团队与协议住宿</h3><p>长期住宿、团队接待与企业协议价。</p><footer><b>专属方案</b><a href="#corporate">立即咨询</a></footer></div></article>
           </div>
         </div>
@@ -142,7 +142,7 @@
               <div class="card-body">
                 <div class="card-label">MONTHLY APARTMENT</div>
                 <h3>月租公寓</h3>
-                <div class="price">US$260 <small>/ month 起</small></div>
+                <div class="price">US$200 <small>/ month 起</small></div>
                 <p class="muted">适合商务人士、长住客户与企业员工。</p>
                 <div class="card-actions">
                   <a class="btn btn-dark" href="#monthly">查看详情</a
@@ -156,7 +156,7 @@
                     分享</button
                   ><a
                     class="share-btn"
-                    href="./assets/poster-monthly.jpg"
+                    href="./assets/poster-monthly-v75.png"
                     download
                     >海报</a
                   >
@@ -181,13 +181,13 @@
               <h2>月租公寓</h2>
               <p>长住更划算，拎包即可入住。</p>
             </div>
-            <div class="price">US$260 <small>/ 月起</small></div>
+            <div class="price">US$200 <small>/ 月起</small></div>
             <ul class="feature-list compact">
               <li>独立客厅与卧室</li>
               <li>阳台及简易厨房</li>
               <li>适合商务长住</li>
               <li>企业客户可咨询专属方案</li>
-              <li>US$260/月具体包含服务：请咨询客服确认</li>
+              <li>US$200/月具体包含服务：请咨询客服确认</li>
               <li>最短租期、押金、水电费：请咨询客服确认</li>
               <li>网络、停车、清洁及发票：请咨询客服确认</li>
             </ul>

diff --git a/index.html b/index.html
@@ -127,7 +127,7 @@
             <article class="recommend-card"><img src="./assets/rooms/deluxe-king/H-1-1.webp" alt="中鼎国际酒店豪华大床房"><div><small>舒适入住</small><h3>豪华大床房</h3><p>US$35 / 晚</p><a href="./hotels.html#hotel-stay">查看房型 →</a></div></article>
             <article class="recommend-card"><img src="./assets/rooms/deluxe-twin/H-2-1.webp" alt="中鼎国际酒店豪华双床房"><div><small>双人优选</small><h3>豪华双床房</h3><p>US$35 / 晚</p><a href="./hotels.html#hotel-stay">查看房型 →</a></div></article>
             <article class="recommend-card"><img src="./assets/rooms/family-two-bedroom/F-2-1.webp" alt="中鼎国际酒店家庭两房一厅"><div><small>家庭入住</small><h3>家庭两房一厅</h3><p>US$65 / 晚</p><a href="./hotels.html#hotel-stay">查看房型 →</a></div></article>
-            <article class="recommend-card"><img src="./assets/monthly-6.jpg" alt="金边月租公寓"><div><small>长租公寓</small><h3>月租公寓</h3><p>US$260 / 月起</p><a href="./monthly.html">查看详情 →</a></div></article>
+            <article class="recommend-card"><img src="./assets/monthly-6.jpg" alt="金边月租公寓"><div><small>长租公寓</small><h3>月租公寓</h3><p>US$200 / 月起</p><a href="./monthly.html">查看详情 →</a></div></article>
           </div>
           <div class="section-title supply-picks-title"><span>SUPPLIER PICKS</span><h2>供应商推荐</h2><p class="muted">展示已审核的优质供应商。</p></div>
           <div class="recommend-grid supplier-picks" id="homeSupplierGrid"><article class="recommend-card supplier-recommend"><div class="recommend-placeholder">ZIEC SUPPLY</div><div><small>供应链平台</small><h3>柬埔寨本地供应商对接</h3><p>建筑材料、工程服务、家具设备与物流资源</p><a href="./suppliers.html">进入供应链平台 →</a></div></article></div>
@@ -181,7 +181,7 @@
               <h2>月租公寓</h2>
               <p>长住更划算，拎包即可入住。</p>
             </div>
-            <div class="price">US$260 <small>/ 月起</small></div>
+            <div class="price">US$200 <small>/ 月起</small></div>
             <ul class="feature-list compact">
               <li>独立客厅与卧室</li>
               <li>阳台及简易厨房</li>
@@ -301,7 +301,7 @@
             ><strong>ZIEC HOTEL</strong><small>中鼎国际酒店</small></span
           >
         </div>
-        <div>© 2026 ZIEC HOTEL V7.4 · www.ziechotel.com</div>
+        <div>© 2026 ZIEC HOTEL V7.5 · www.ziechotel.com</div>
       </div>
     </footer>
     <a

diff --git a/handlers/ai-chat.js b/handlers/ai-chat.js
@@ -8,7 +8,7 @@ const FAQ = [
   {
     keys: ["月租", "公寓", "长住"],
     answer:
-      "月租公寓适合商务人士、企业员工和长期驻柬客户，US$260/月起，可咨询企业长租方案。",
+      "月租公寓适合商务人士、企业员工和长期驻柬客户，US$200/月起，可咨询企业长租方案。",
   },
   {
     keys: ["供应商", "入驻", "新增"],

diff --git a/join.html b/join.html
@@ -138,7 +138,7 @@
             ><small>中鼎国际酒店 · 供应链平台</small></span
           >
         </div>
-        <div>© 2026 ZIEC HOTEL V7.4 · www.ziechotel.com</div>
+        <div>© 2026 ZIEC HOTEL V7.5 · www.ziechotel.com</div>
       </div>
     </footer>
     <a class="floating-wa" href="https://wa.me/855189958899" target="_blank"

diff --git a/suppliers.html b/suppliers.html
@@ -124,7 +124,7 @@
             ><small>中鼎国际酒店 · 供应链平台</small></span
           >
         </div>
-        <div>© 2026 ZIEC HOTEL V7.4 · www.ziechotel.com</div>
+        <div>© 2026 ZIEC HOTEL V7.5 · www.ziechotel.com</div>
       </div>
     </footer>
     <a class="floating-wa" href="https://wa.me/855189958899" target="_blank"

diff --git a/admin.html b/admin.html
@@ -79,7 +79,7 @@
             ><small>中鼎国际酒店 · 供应链平台</small></span
           >
         </div>
-        <div>© 2026 ZIEC HOTEL V7.4 · www.ziechotel.com</div>
+        <div>© 2026 ZIEC HOTEL V7.5 · www.ziechotel.com</div>
       </div>
     </footer>
     <a class="floating-wa" href="https://wa.me/855189958899" target="_blank"

diff --git a/ZIEC-LIFE-网站制作记录.md b/ZIEC-LIFE-网站制作记录.md
@@ -239,3 +239,11 @@
 - 首页无真实供应商数据时自动隐藏供应商推荐区，避免空壳或模拟平台观感。
 - sitemap移除不存在的语言目录，更新重点页面日期；页脚版本更新为V7.4。
 - 企业邮箱、Google评价、OTA链接、完整门牌地址属于外部资料，未确认前不编造、不上线。
+
+# 2026-09-03｜ZIEC HOTEL V7.5 月租调价与三语修正版
+
+- 按用户最新要求，将月租公寓由US$260/月起统一调整为US$200/月起。
+- 调整范围覆盖首页、酒店页、月租详情页、FAQ、AI客服、动态推荐、英文/柬文词库、SEO描述和结构化数据，避免只改页面显示而遗漏搜索及动态内容。
+- 修正英文联系页仍显示中文标题、副标题的问题；修正柬文后台仍显示中文标题、菜单和说明的问题。
+- 月租海报同步改为US$200，底部域名改为www.ziechotel.com，二维码目标改为.com月租详情页。
+- 保持网站原框架、订单、数据库、后台和供应商功能不变，版本更新为V7.5。

diff --git a/V7.5-更新说明.md b/V7.5-更新说明.md
@@ -1,0 +1,11 @@
+# ZIEC HOTEL V7.5｜月租调价与三语修正版
+
+更新日期：2026-09-03
+
+- 保持V7.4原框架、订单接口、Supabase数据库、后台结构和供应商功能不变。
+- 月租公寓全站统一为US$200/月起：包含首页、酒店页、月租详情页、FAQ、AI客服、动态推荐、SEO描述及Schema。
+- 修复联系页英文模式中文残留，补齐标题、副标题、联系资料、地图及按钮英文。
+- 修复后台柬文模式中文残留，补齐后台标题、说明、菜单和AI管理等词条。
+- 同步补充月租US$200相关英文与柬文动态翻译。
+- 新月租海报改为US$200，网址改为www.ziechotel.com，二维码目标为https://www.ziechotel.com/monthly.html。
+- 页脚版本更新为V7.5。
